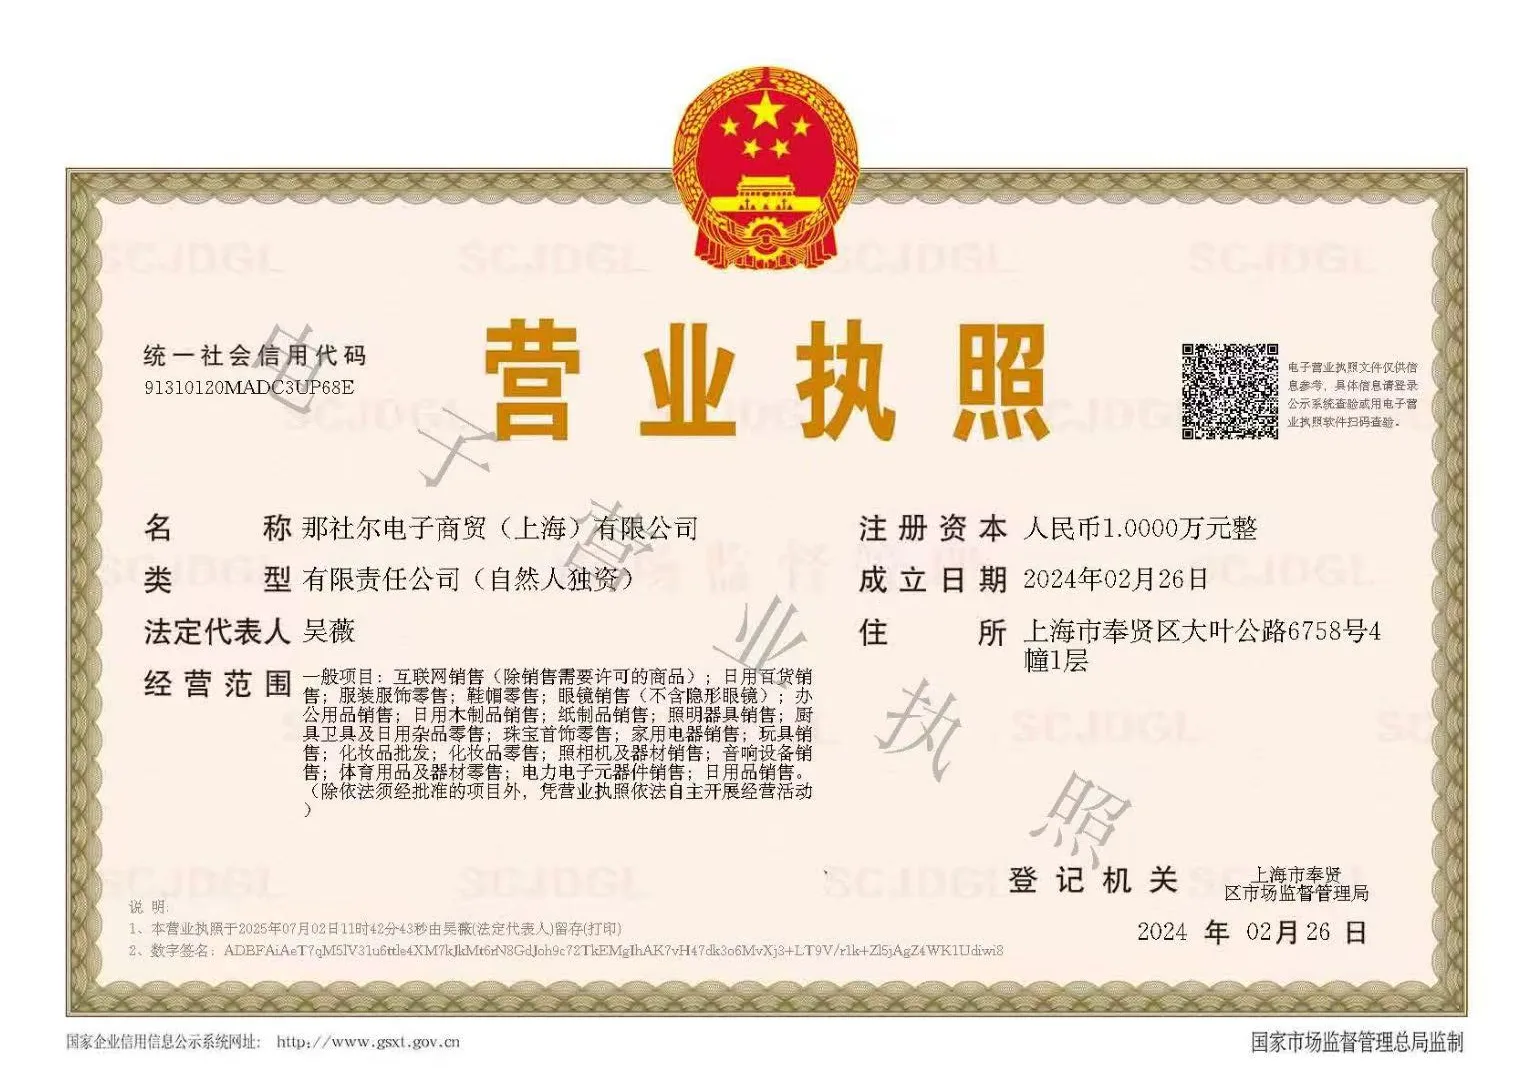
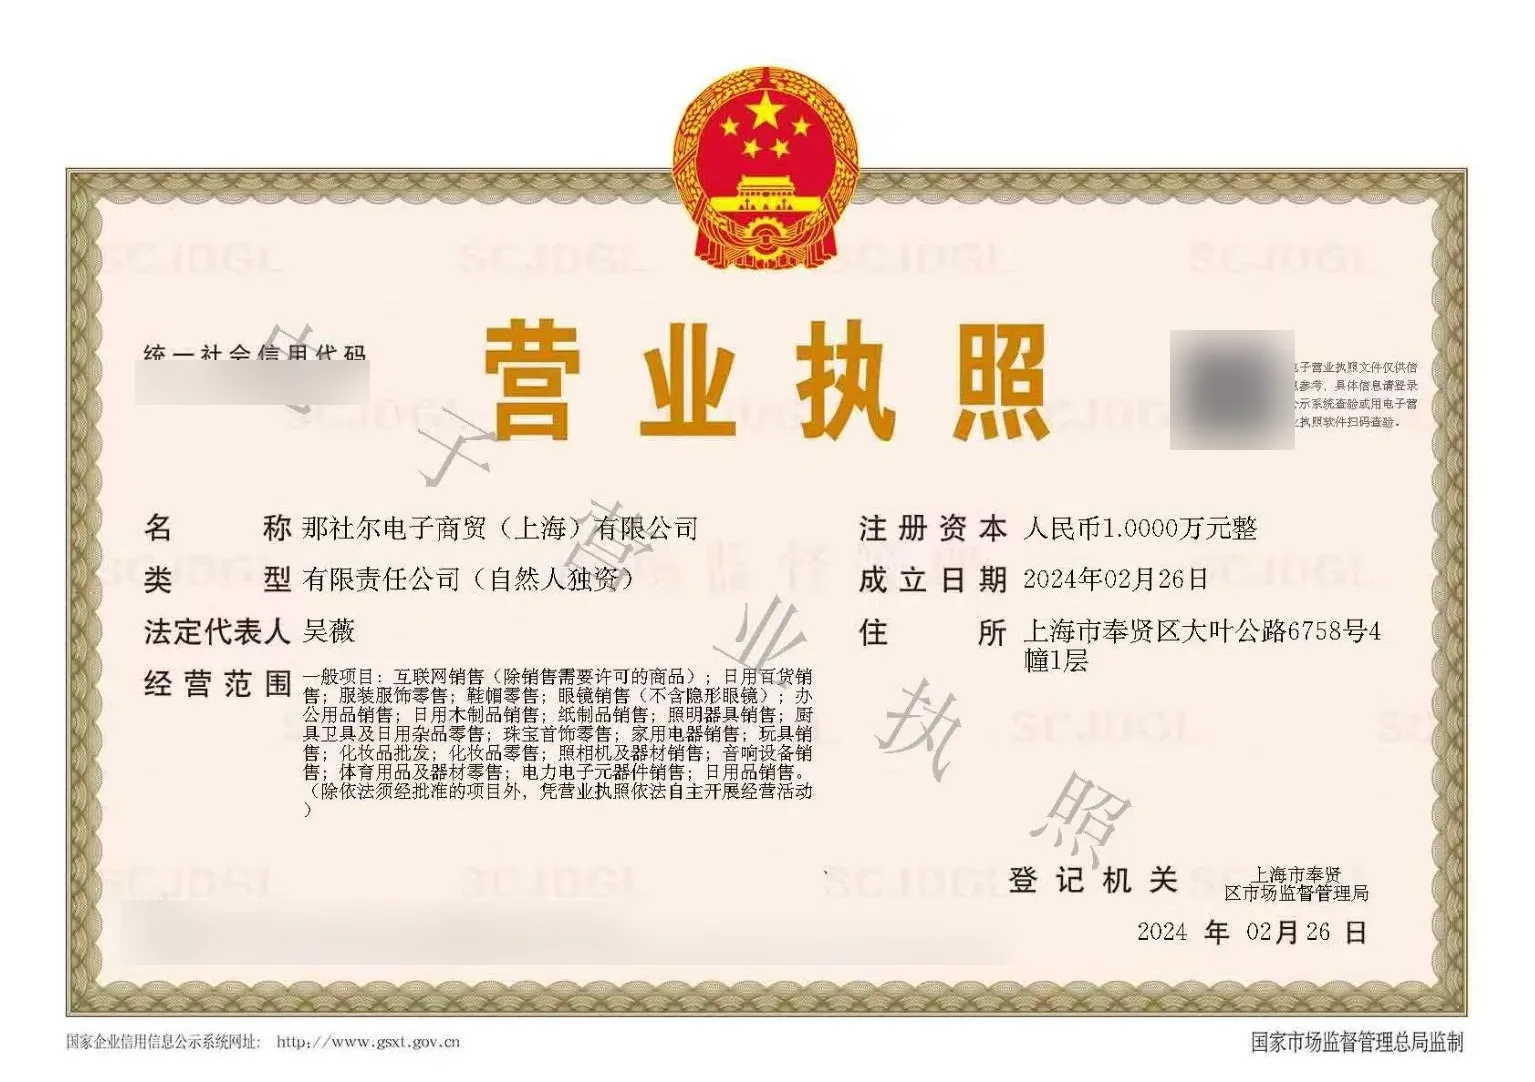
Blur licence codes and QR codes, name Lucy as the tax advisor
Claude-Session: https://claude.ai/code/session_01VCydf9huZZz87FCsAHmArr

diff --git a/src/lib/company.ts b/src/lib/company.ts
@@ -5,7 +5,8 @@
  * Kept in code rather than the CMS because these change once in years and
  * must never be edited by accident. Licence scans live in public/brand/licences/;
  * an entry with no `images` shows "available on request" instead. Personal
- * ID numbers and birth dates are blurred in the scans before they are added.
+ * ID numbers, birth dates, licence codes and QR codes are blurred in the
+ * scans before they are added, at the owner's request.
  * Fields left null are simply not rendered — fill them from the documents,
  * never from guesswork.
  */
@@ -28,7 +29,7 @@ export const LICENCES: Licence[] = [
     id: 'guangzhou',
     legalName: 'Guangzhou HIGP International Business Services Co., Ltd',
     chineseName: '广州海吉鹏国际商务服务有限公司',
-    number: '91440106MAK38EQ97M',
+    number: null,
     images: [
       {
         src: '/brand/licences/guangzhou.webp',
@@ -42,15 +43,15 @@ export const LICENCES: Licence[] = [
     id: 'nasher',
     legalName: 'Nasher',
     chineseName: '那社尔电子商贸（上海）有限公司',
-    number: '91310120MADC3UP68E',
+    number: null,
     images: [
       { src: '/brand/licences/nasher.webp', width: 1535, height: 1082, label: 'businessLicence' },
     ],
   },
   {
     id: 'accounting',
-    legalName: 'Amber',
-    chineseName: '吴薇',
+    legalName: 'Amber · Lucy',
+    chineseName: null,
     number: null,
     images: [
       { src: '/brand/licences/accounting.webp', width: 1600, height: 1156, label: 'accounting' },
